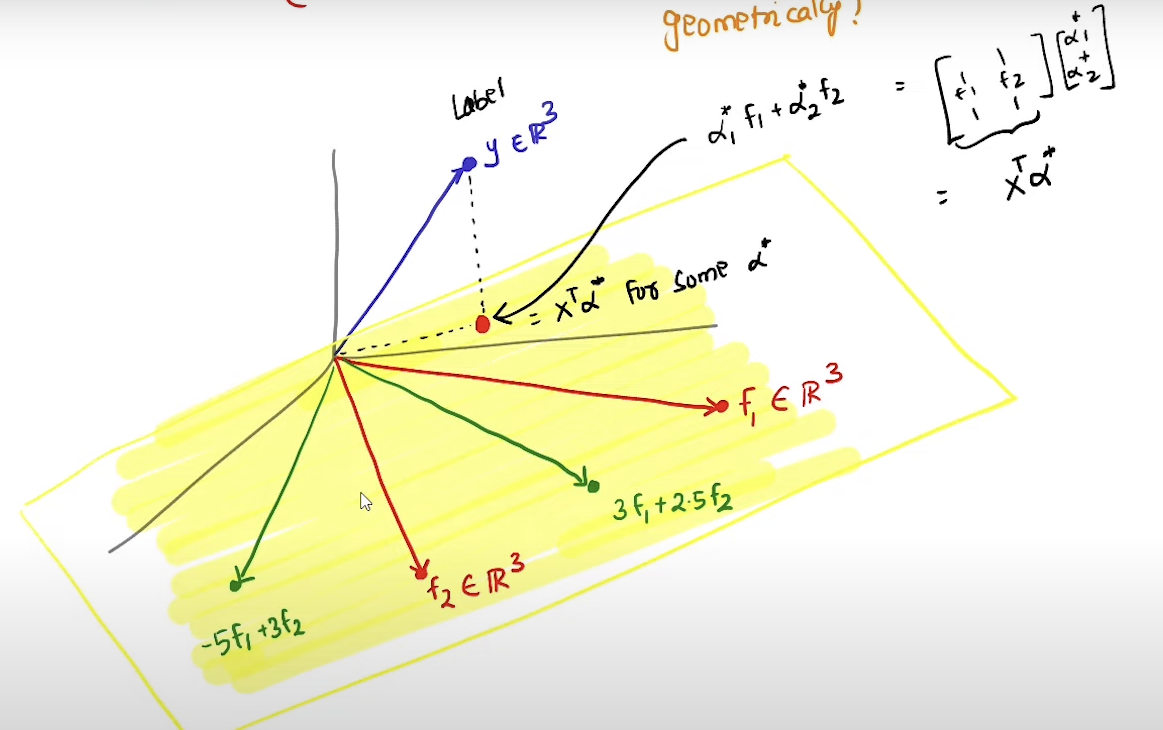
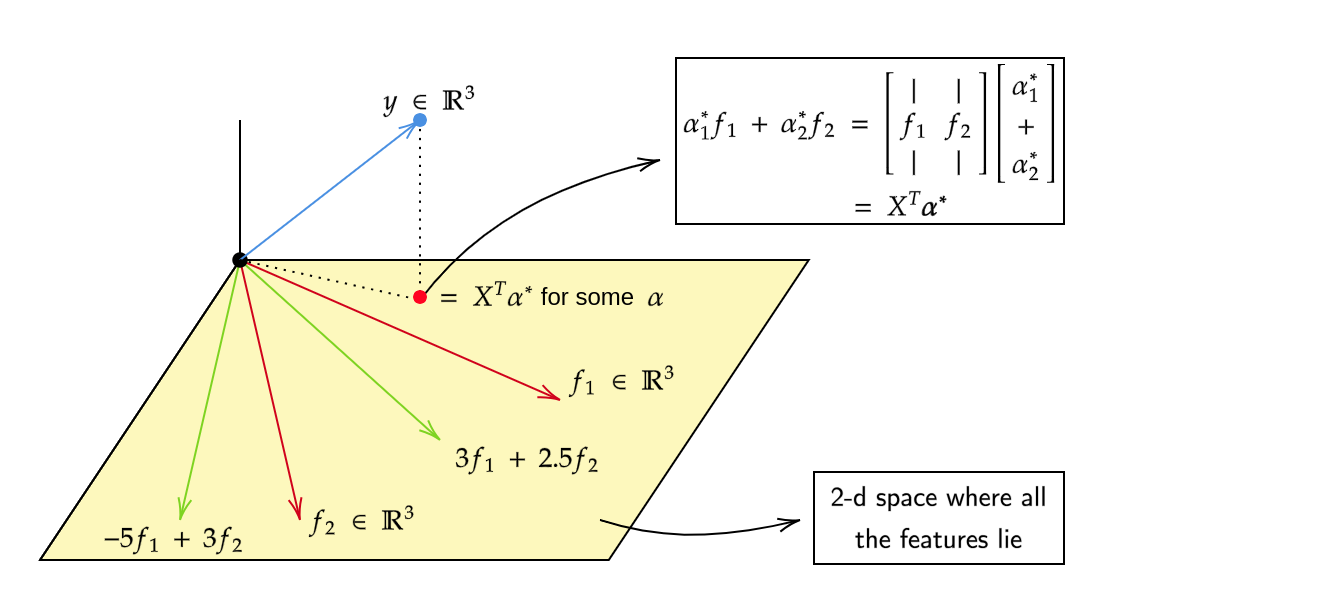
week5 new diagrams + full notes

diff --git a/docs/MLT/WEEK 5/Supervised Learning.md b/docs/MLT/WEEK 5/Supervised Learning.md
@@ -46,7 +46,7 @@ but impose a certain structure to reduce our search space.
 One of the simplest structures we could impose is a linear 
 structure.
 
-![](img/image_2023-10-30-22-07-59.png)
+![](img/linear_structure.png)
 
 Now our modified goal is 
 
@@ -89,7 +89,7 @@ Lets say for a dataset with number of features to be 2
 
 > How can we interpret $w^* = (XX^T)^\dagger(Xy)$ geometrically?
 
-Now if we draw an $n$ dimensional space , in our case its 3,
+Now if we draw an $n$ dimensional space , in our case its $n =3$,
 the first vector that we will have will be in $\mathbb{R}^3$ and the other 
 vector also in $\mathbb{R}^3$.
 
@@ -100,8 +100,8 @@ vector also in $\mathbb{R}^3$.
 Now we plot the label in the same $\mathbb{R}^3$ subspace.
 ![](img/label_plot.png)
 
-We can see that the linear combinations of the features will lie in 
-the same plane as the features themselves.
+We can see that the linear combinations of the features (green vectors)
+will lie in the same plane as the features themselves.
 
 
 Now if we also plot the label vector ($y$) onto the same $\mathbb{R}^3$
@@ -142,6 +142,77 @@ $$y^T X^T ((XX^T)^\dagger Xy) - ((XX^T)^\dagger Xy)^T (XX^T) (XX^T)^\dagger Xy =
 
 With this equation we basically prove that the solution $\alpha^*$ we were looking for 
 is the same as $w^*$
+
+## Gradient Descent 
+> We know that $w^*$ has a closed form solution which is $w^* = (XX^T)^\dagger Xy$,
+but it is computationally expensive to compute $w^*$ as it takes $O(d^3)$ iterations.
+Also, solving for $w^*$ is an unconstrained optimization problem , which can be solved
+using the method of Gradient Descent.
+
+Gradient Descent is an iterative way to find minimizers of functions using just
+first order information , which is gradient of the function (vector of partial 
+derivatives).
+
+$$ w^{t+1} = w^t - \eta_t \nabla f(w^t) $$
+
+> The gradient tells you the direction where function will increase , instead ,
+when doing gradient descent we move opposite to the direction of the gradient 
+along the function , where it gradually decreases.
+
+> - $\eta_t$ is a scalar value and it is the step-size we take to move along the function.
+- $f(w^t)$ gives us the direction of the gradient.
+
+> After some iterations , we eventually reach the global minima of the function.
+
+Our original Mean Squared Error function was,
+
+$$\begin{equation*}
+\begin{split}
+f(w) &= ||Xw - y||^2 = \sum_{i=1}^{n} (w^T x_i - y_i)^2 \\
+\nabla f(w) &= 2 (XX^T)w - 2Xy \\
+\end{split}
+\end{equation*}$$
+
+Now we can use this gradient of $f(w)$ in the gradient descent equation,
+
+$$ w^{t+1} = w^t - \eta_t [2(XX^T)w - 2Xy] $$
+
+This solves the problem of not having to compute the inverse of $XX^T$ , which
+takes $O(d^3)$ iterations. Using gradient descent to calculate $w^*$ makes it
+less computationally expensive.
+
+> Now what to do if $n$ is too large, we know that $XX^T$ is a $d \times n * n * \times d$
+matrix , just to calculate $XX^T$ there is an inner dependency of $n$, hence it becomes 
+computationally expensive to solve for $XX^T$.
+
+> Is there any way we can avoid computing $XX^T$?
+
+### Stochastic Gradient Descent
+for $t = 1,2,3 ...... T$ 
+
+- At each step sample a bunch ($k$) of datapoints uniformly at random from the set of 
+all datapoints.
+- Pretend as if this sample ($k$ datapoints) is the entire dataset and take a gradient 
+step with respect to it, 
+
+$$2(\tilde{X}\tilde{X}^T w^t - \tilde{X} \tilde{y})$$
+
+where $\tilde{X}$ is the sampled ($k$) datapoints and $\tilde{y}$ are the labels corresponding 
+to the datapoints.
+
+> This makes calculating $XX^T$ managable as we only take $k$ points at a time.
+
+After $t$ rounds , use 
+
+$$ w^T_{\text{SGD}} = \frac{1}{T} \sum_{i=1}^{t} w^t $$ 
+
+> At the end we basically take the average of the $w^t$ obtained after several iterations ,
+though the direction of descent may be noisy at first but in a typical case the average usually
+gives out the $w^*$ with least possible noise.
+
+!!! note ""
+    Stochastic Gradient Descent is always guaranteed to converge to optima with high
+    probability.
 
 ## Kernel Regression 
 Our goal here is to map the data points to a higher dimensional space and 
@@ -216,8 +287,59 @@ K^2 \alpha^* &= Ky \\
 
 $K = X^T X$ , is the kernel matrix.
 
+### Prediction
+We know that,
 
-IDK WHAT THIS MEANS !!!!!!!!
-![](img/prediction.png)
+$$ w = \sum_{i=1}^n \alpha_i x_i $$
 
-![](img/prediction2.png)
+Also Prediction $= w^T x_{\text{test}}$ ,
+
+$$\begin{equation*}
+\begin{split}
+w^T x_\text{test} &= (\sum_{i=1}^n \alpha_i x_i )^T x_\text{test} \\
+&= \sum_{i=1}^n \alpha_i (x_i^T x_\text{test}) \\
+&= \sum_{i=1}^n ( \phi(x_i)^T \phi(x_\text{test}) ) \\
+&= \sum_{i=1}^n \alpha_i K (x_i , x_\text{test}) \\
+\end{split}
+\end{equation*}$$
+
+where $\alpha_i$ shows how important is $i^\text{th}$ point 
+towards $w^*$ and $K(x_i , x_\text{test})$ shows how similar
+is $x_\text{test}$ to $x_i$.
+
+## Probabilistic view of Linear Regression 
+In a linear regression problem we know that , $x \in \mathbb{R}^d$ , $y \in \mathbb{R}$ 
+for a set of datapoints $\{ (x_1 , y_1) , (x_2 , y_2) , ..... (x_n , y_n) \}$.
+
+The probabilistic we are going to assume is as follows,
+
+$$ y|x \sim w^T x + \epsilon $$
+
+For a given feature theres is an *unknown but fixed* $w \in \mathbb{R}^d$ and 
+$\epsilon$ is a zero-mean gaussian ($\mathcal{N}(0 , \sigma^2)$)noise.
+
+> Now we can view this as an estimation problem and solve it using the 
+maximum likelihood approach.
+
+The likelihood function will be ,
+
+$$\begin{equation*}
+\begin{split}
+\mathcal{L}(w ; \substack{x_1 , x_2 , ... x_n \\ y_1 , y_2 , ... y_n} ) &= \prod_{i=1}^n e^{- \frac{(w^Tx_i - y_i)^2}{2 \sigma^2}} \times \frac{1}{\sqrt{2 \pi} \sigma} \\
+\log \mathcal{L}(w ; \substack{x_1 , x_2 , ... x_n \\ y_1 , y_2 , ... y_n} ) &= \sum_{i=1}^n  \frac{-(w^Tx_i - y_i)^2}{2 \sigma^2} \times \frac{1}{\sqrt{2 \pi} \sigma} \\
+\\
+\text{equivalently} \\
+\\
+&= \underset{w}{\max} \sum_{i=1}^{n} - (w^T x_i - y_i)^2 \\
+&= \underset{w}{\min} \sum_{i=1}^n (w^Tx_i - y_i)^2 \\
+\end{split}
+\end{equation*}$$
+
+**Note** that the mean of the distribution becomes $w^Tx + 0$ as $\epsilon$ is a 
+zero-mean gaussian distribution , which makes the final distribution to be 
+$\mathcal{N}(w^Tx , \sigma^2)$
+
+Also, we ignored the constants in the later half of the derivation because they are,
+you guessed it , constants. :p
+
+Finally from this we can conclude that $w^* = w_\text{ML} = (XX^T)^\dagger Xy$
